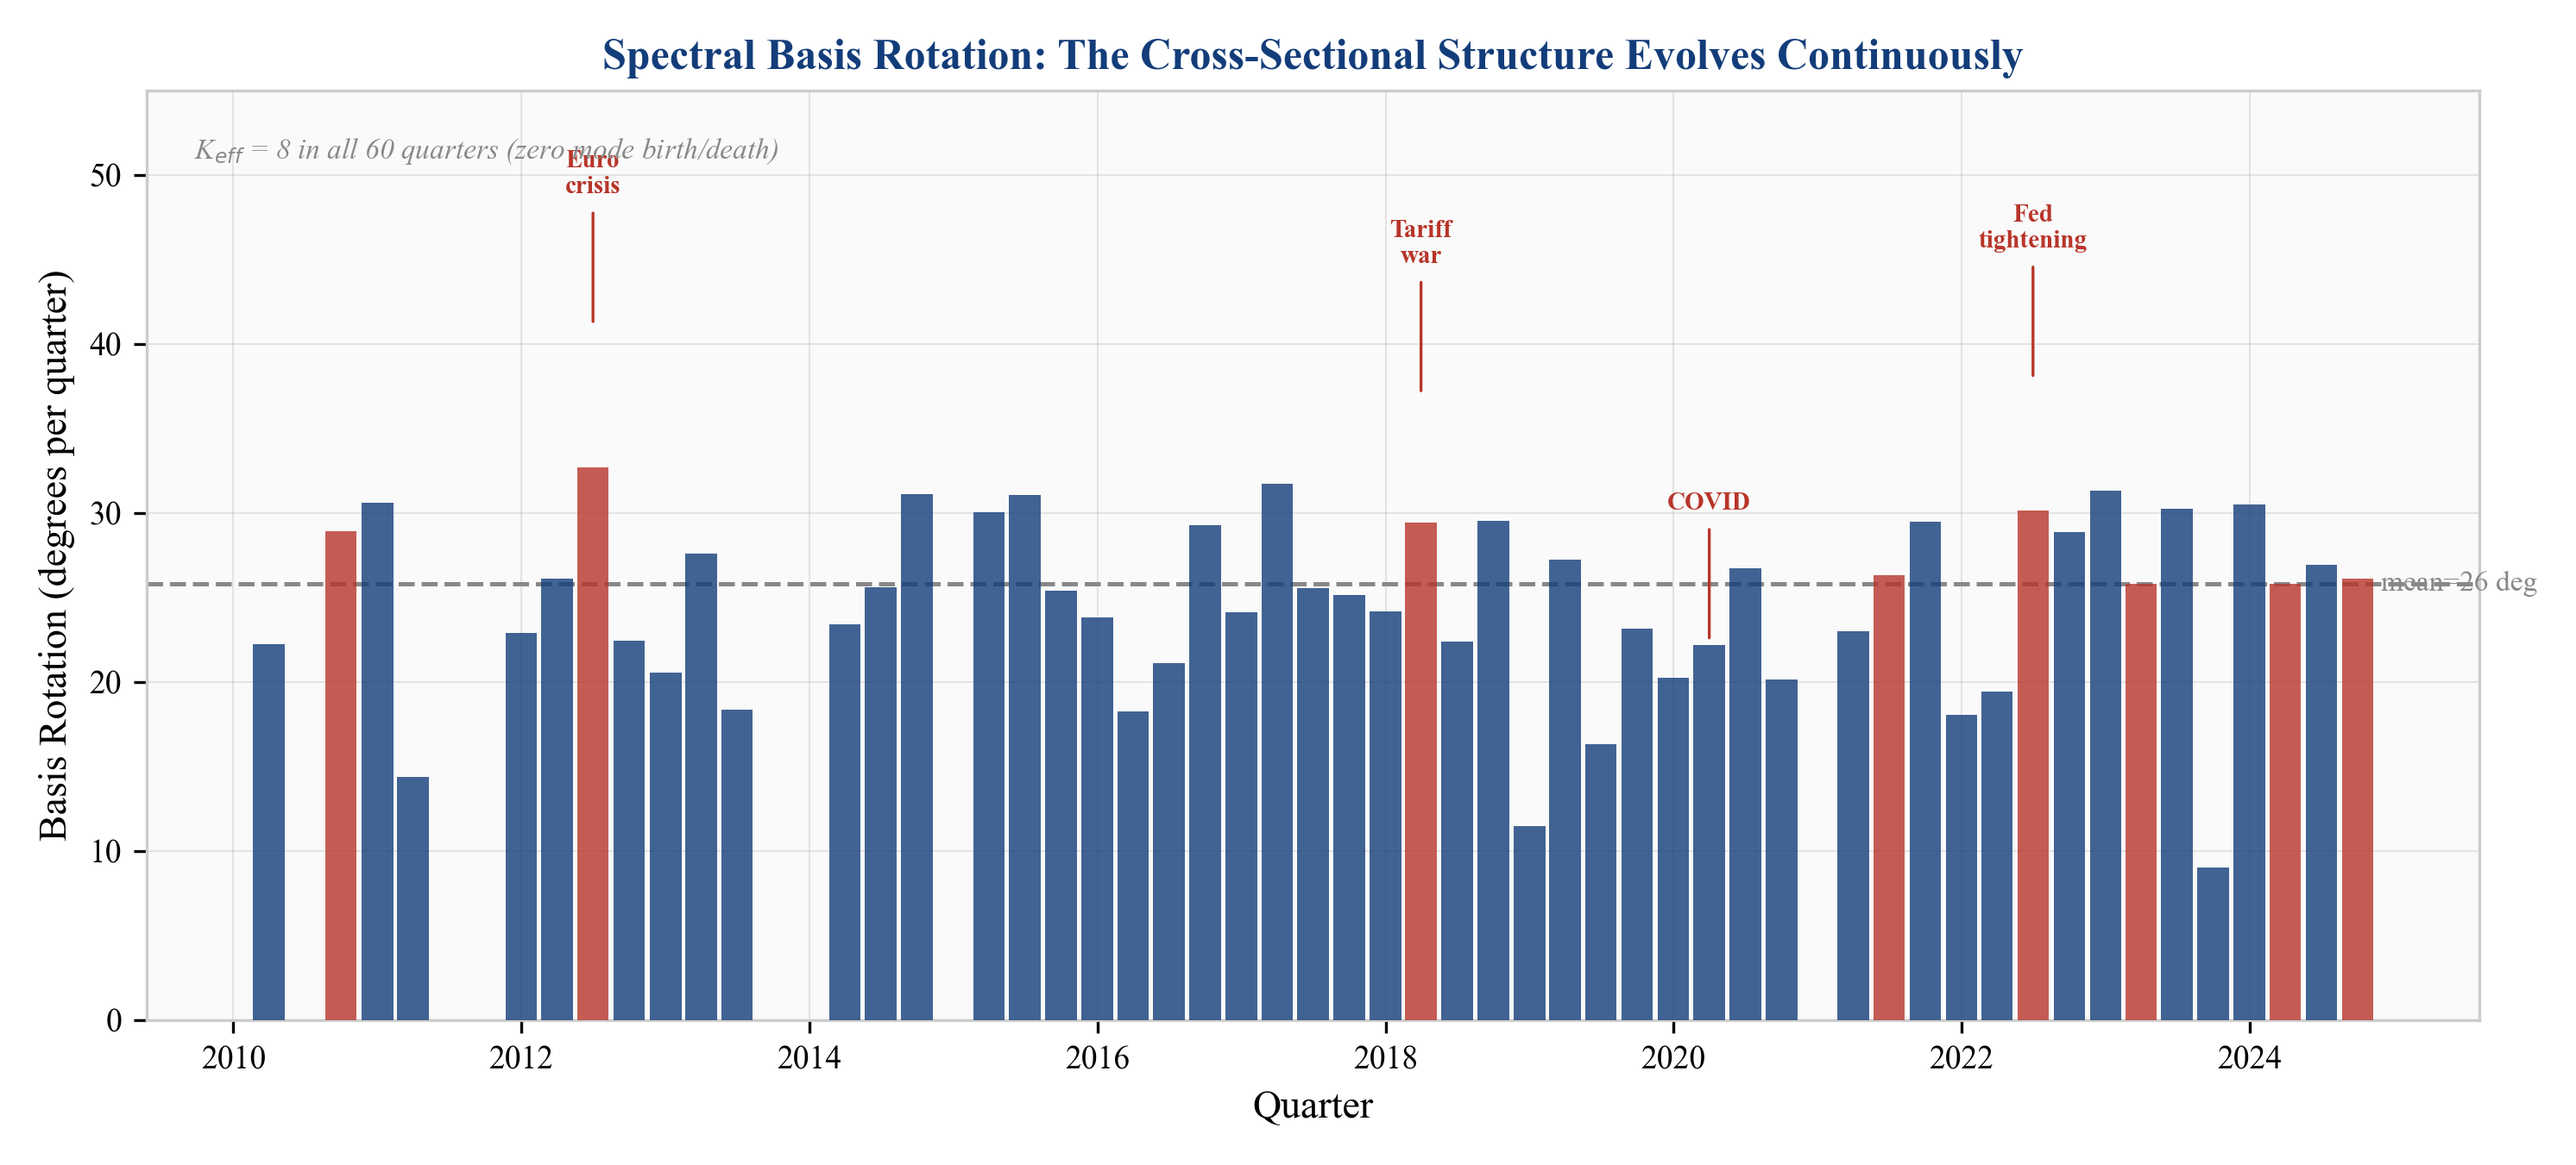
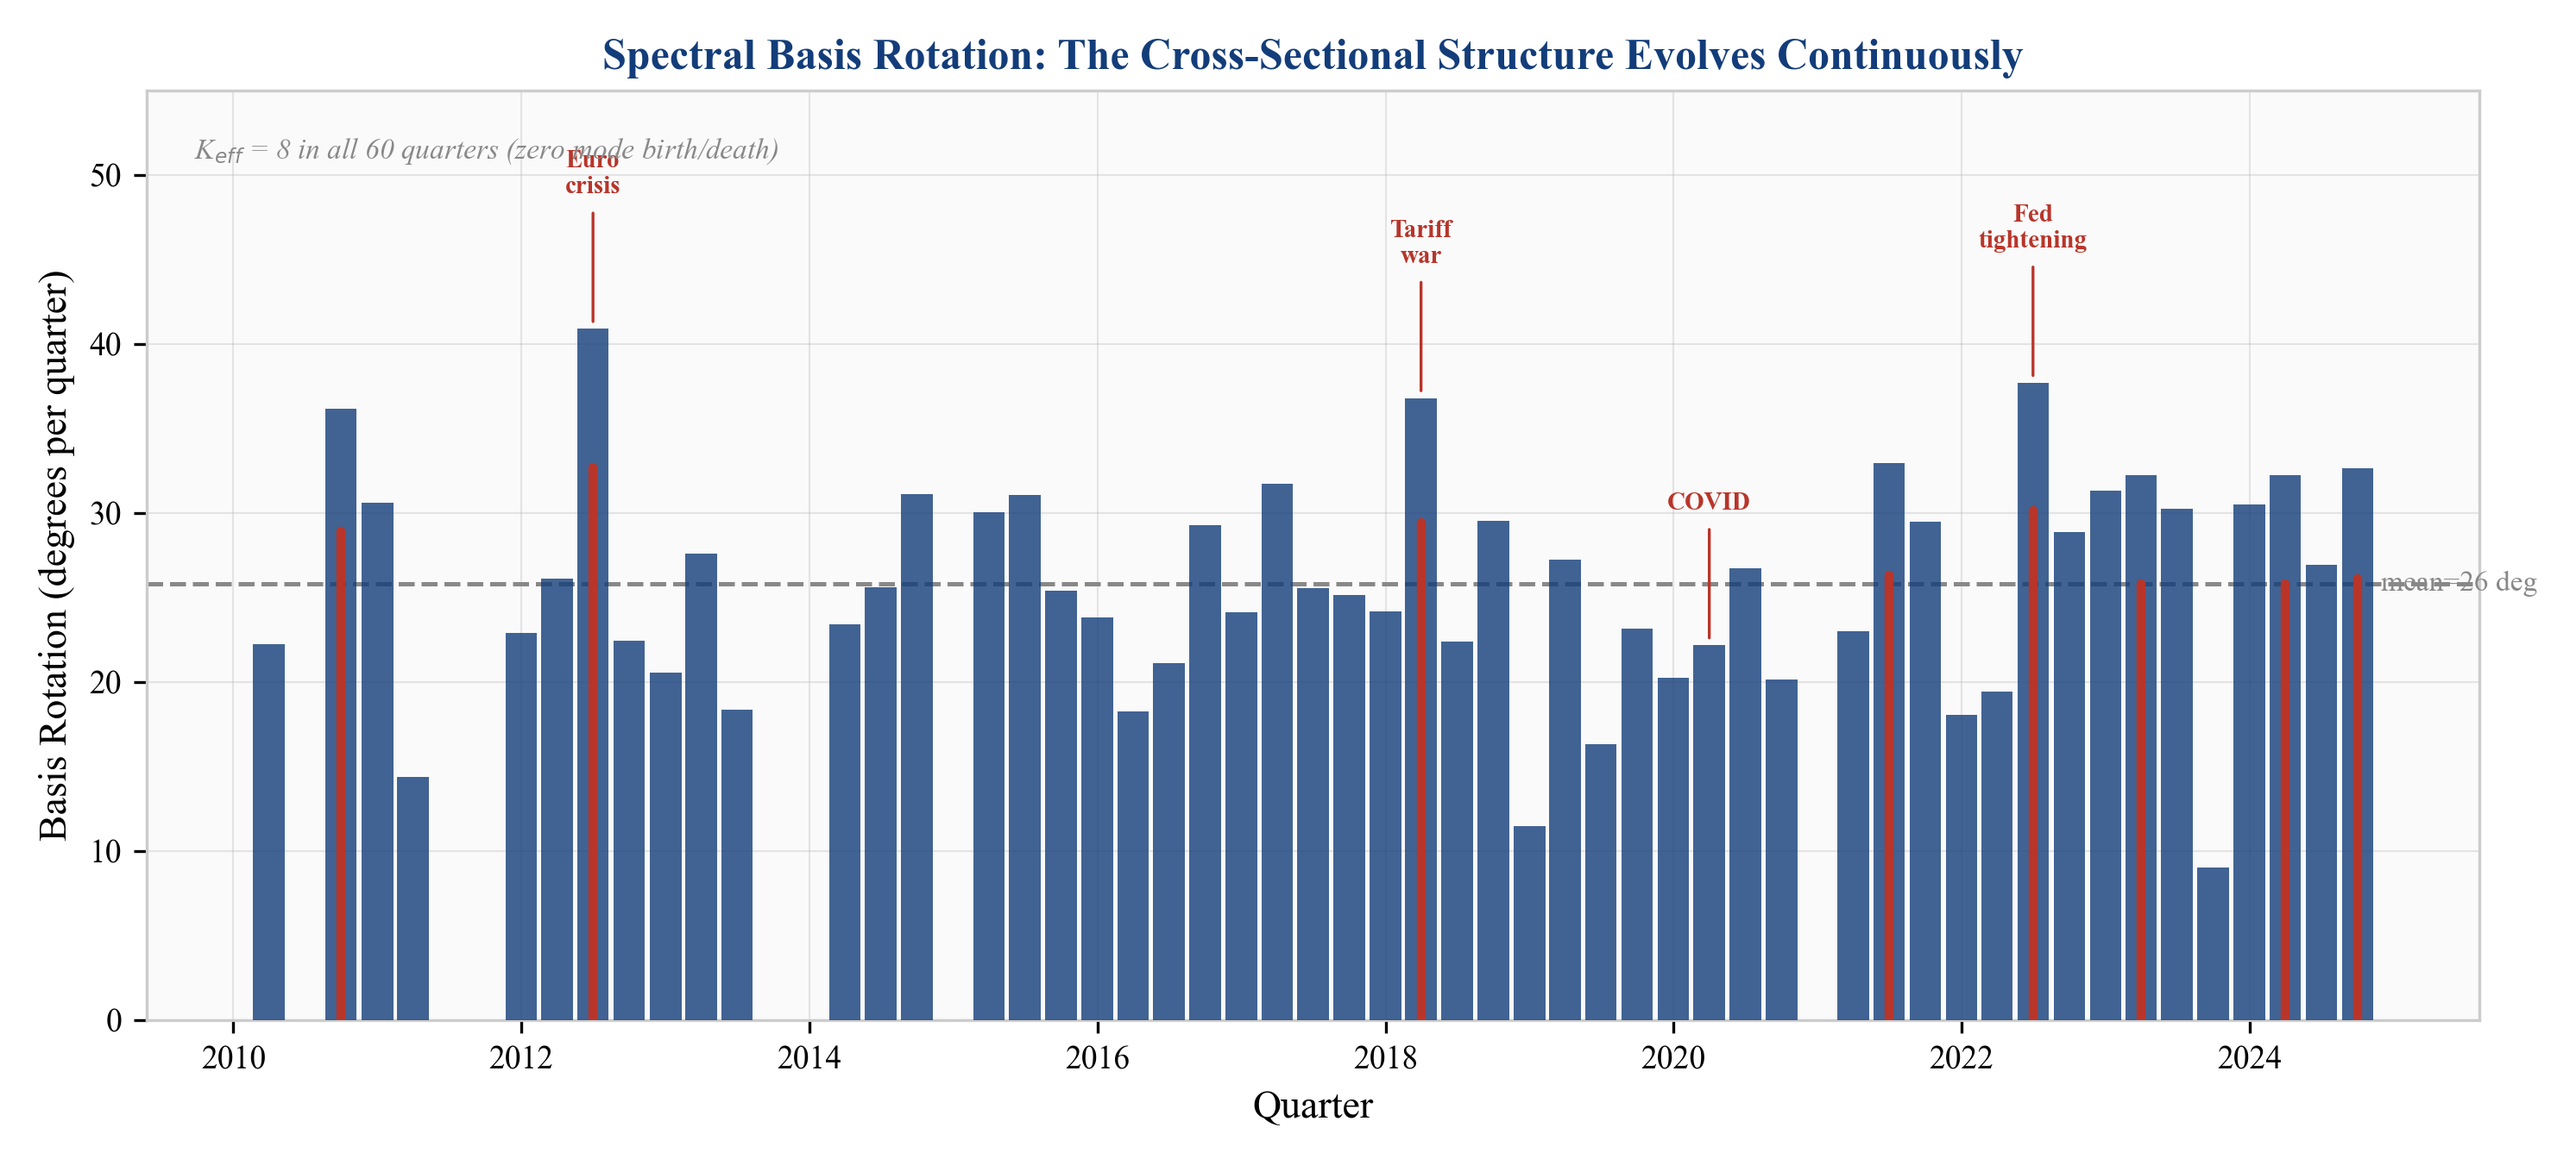
[SMIM] Basis rotation: red event lines inside full-height bars
All bars now render at full data height (no scaling). Red vertical lines
drawn inside high-rotation bars (>32 deg) at 80% of bar height as event
markers. Lines start from zero and sit within the bar, not hovering.

diff --git a/scripts/paper_figures_v2.py b/scripts/paper_figures_v2.py
@@ -194,12 +194,14 @@ def fig_basis_rotation():
 
     fig, ax1 = plt.subplots(figsize=(10, 4.5))
 
-    # Rotation bars — red bars scaled to 80% height to distinguish from data bars
+    # Rotation bars — all bars at full height, uniform colour
+    ax1.bar(dates, rotation, width=80, color=ACCENT, alpha=0.8, zorder=3, edgecolor="none")
+
+    # Red vertical event lines at 80% of bar height for high-rotation quarters
     threshold = 32
-    is_high = rotation > threshold
-    colors = [RED if h else ACCENT for h in is_high]
-    display_heights = np.where(is_high, rotation * 0.80, rotation)
-    ax1.bar(dates, display_heights, width=80, color=colors, alpha=0.8, zorder=3, edgecolor="none")
+    for i, (d, r) in enumerate(zip(dates, rotation)):
+        if r > threshold:
+            ax1.plot([d, d], [0, r * 0.80], color=RED, linewidth=2.5, zorder=4, solid_capstyle="round")
 
     # Mean line
     mean_rot = rotation.mean()
